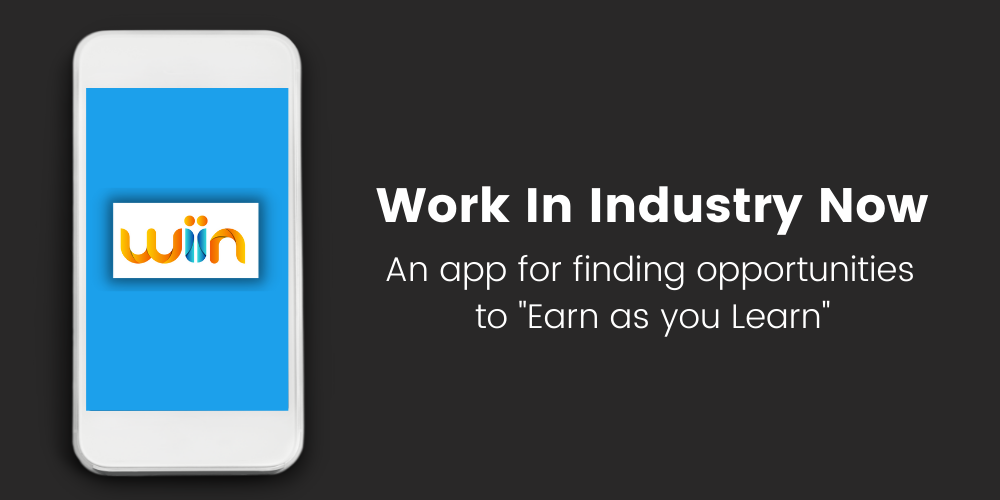
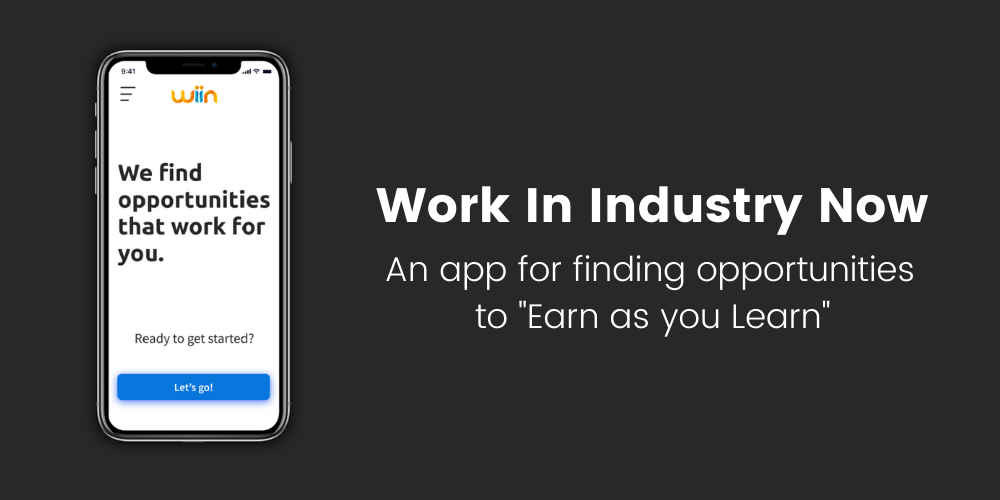
wiin case study updates

Changed region(s): [[0.062, 0.06, 0.31, 0.96]]

diff --git a/wiin.html b/wiin.html
@@ -4,14 +4,14 @@
         <meta charset="utf-8">
         <meta name="viewport" content="width=device-width, initial-scale=1, shrink-to-fit=no">
             <!-- Default image social media links -->
-        <meta property="og:image" content="https://www.kirstengord.com/social-image.png">
+        <meta property="og:image" content="https://www.kirstengord.com/wiin.html/wiin-project.png">
         <meta property="og:image:type" content="image/png">
         <meta property="og:image:width" content="1000">
-        <meta property="og:image:height" content="1000">
+        <meta property="og:image:height" content="500">
         <meta property="og:type" content="website" />
-        <meta property="og:url" content="https://www.kirstengord.com">
-        <meta property="og:title" content="Kirsten Gord - Portfolio" />
-        <meta property="og:description" content="I'm passionate about empowering others through design and technology." />
+        <meta property="og:url" content="https://www.kirstengord.com/wiin.hml">
+        <meta property="og:title" content="Wiin App - Case Study" />
+        <meta property="og:description" content="By Kirsten Gord, UX Designer" />
         <title>Kirsten Gord</title>
         <!-- Bootstrap link -->
         <link rel="stylesheet" href="https://maxcdn.bootstrapcdn.com/bootstrap/4.0.0/css/bootstrap.min.css" integrity="sha384-Gn5384xqQ1aoWXA+058RXPxPg6fy4IWvTNh0E263XmFcJlSAwiGgFAW/dAiS6JXm" crossorigin="anonymous">
@@ -57,7 +57,7 @@
           <div class="container-fluid chuck-heading">
             <h1 class="green chuck-title">Work In Industry Now</h1>
             <h2 class="white subtitle">An App for Finding Opportunities to "Earn as you Learn"</h2>
-            <img class="chuck-mockup" src="images/wiin/wiin-logo.png" alt="wiin-logo">
+            <img class="chuck-mockup" src="images/wiin/mockup-hero.png" alt="wiin-app-mockups">
             </div>
         </div>
       
